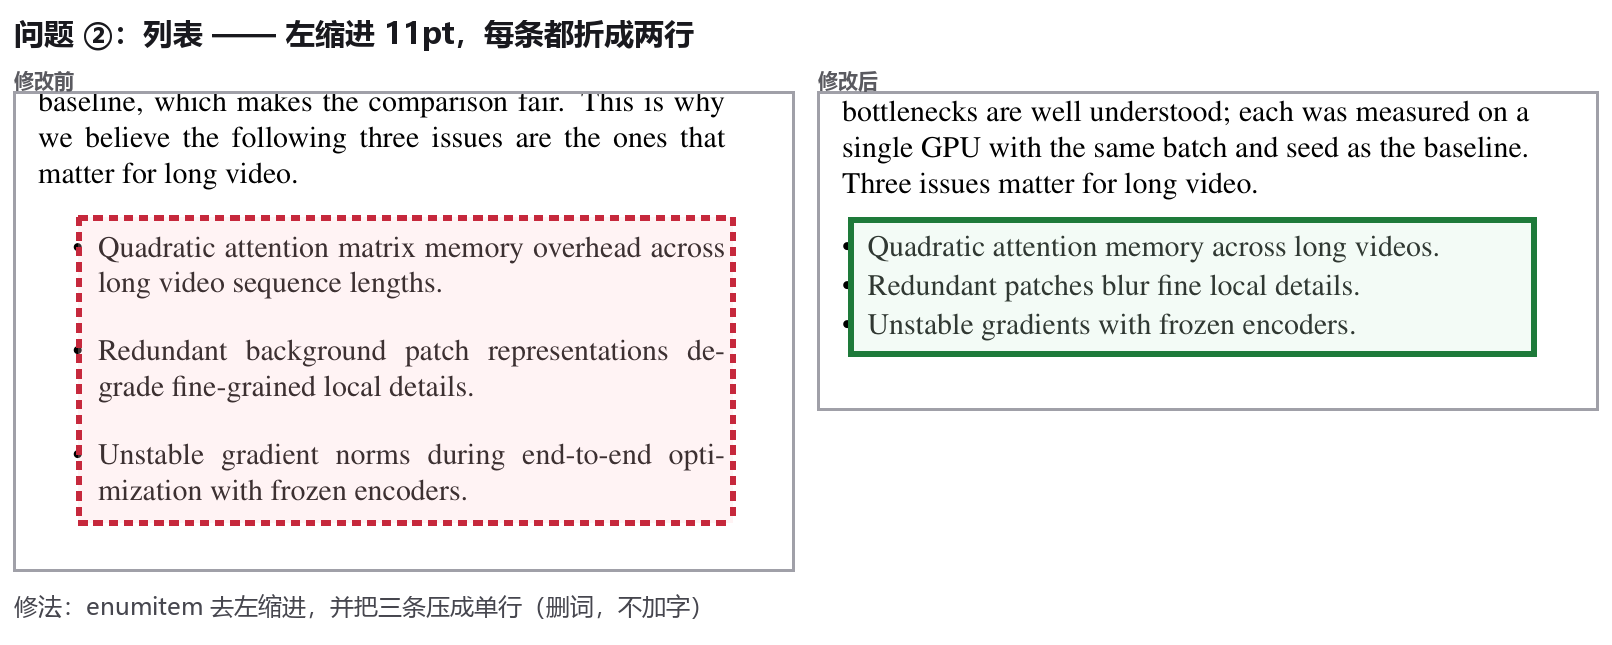
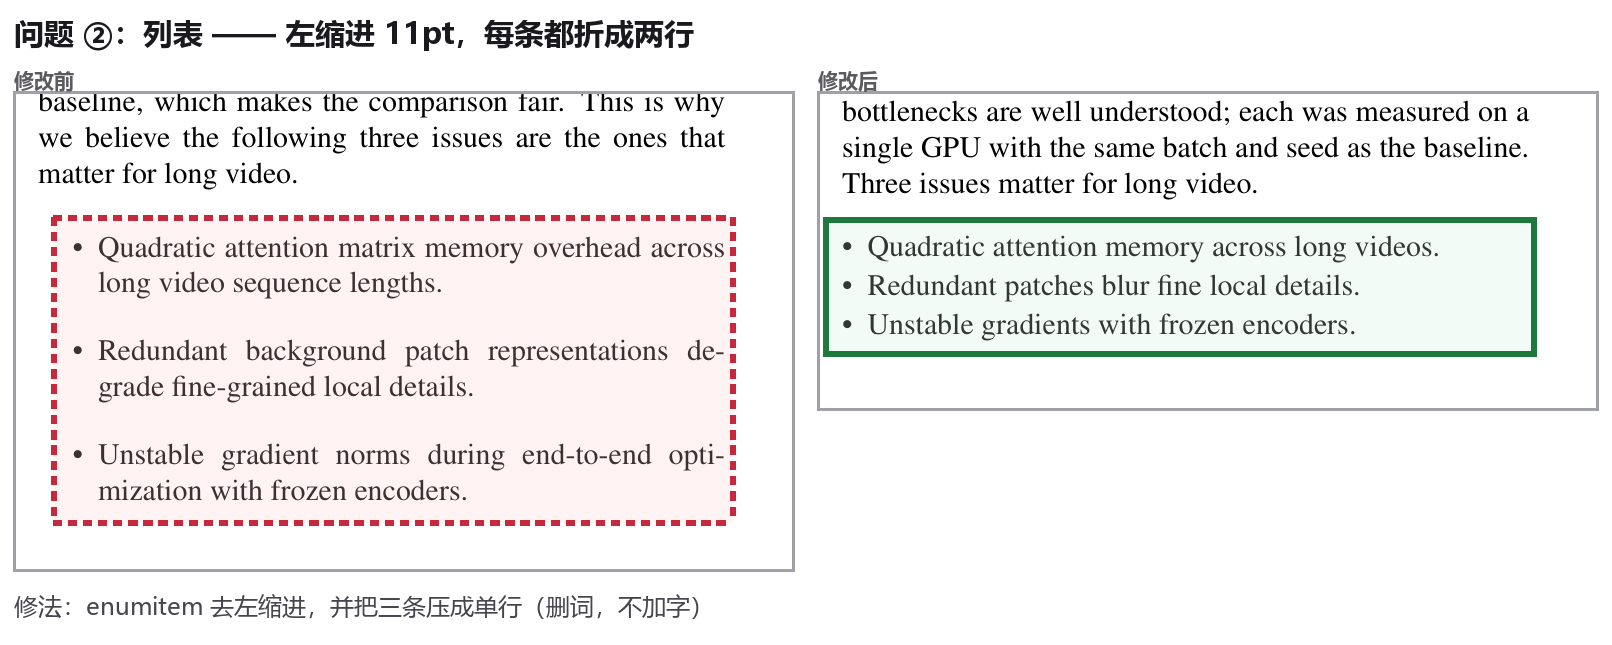
Fix corrupted code fences in README, extend list crop, strip SKILL.md BOM
- README: restore `ash / `	ext fences (backtick escapes had eaten two
  backticks and the letter r), regenerate numbered sections
- examples/demo3: list box now includes the bullet markers
- SKILL.md: remove UTF-8 BOM

Changed region(s): [[0.031, 0.3101, 0.2481, 0.8372], [0.4963, 0.3411, 0.5273, 0.5581], [0.1861, 0.3101, 0.2171, 0.3411]]

diff --git a/examples/demo3/compose3.py b/examples/demo3/compose3.py
@@ -57,6 +57,17 @@ def line_of(page, text):
     return out
 
 
+def bullet_left(page, y0, y1):
+    xs = []
+    for blk in page.get_text("dict")["blocks"]:
+        for ln in blk.get("lines", []):
+            t = "".join(sp["text"] for sp in ln["spans"]).strip()
+            r = fitz.Rect(ln["bbox"])
+            if t.startswith("•") and r.y0 >= y0 - 4 and r.y1 <= y1 + 4:
+                xs.append(r.x0)
+    return min(xs) if xs else None
+
+
 def mark(layer, r, origin, off, color, tint, scale, dashed_flag=True, w=6, dash=15, pad=7):
     ax = (r.x0 - origin.x0) * scale + off[0]
     ay = (r.y0 - origin.y0) * scale + off[1]
@@ -138,8 +149,10 @@ def main():
     last_b = b.search_for("mization with frozen encoders")[0]
     first_a = a.search_for("Quadratic attention")[0]
     last_a = a.search_for("Unstable gradients with frozen encoders")[0]
-    lb = fitz.Rect(first_b.x0 - 4, first_b.y0 - 3, 301.0, last_b.y1 + 3)
-    rb = fitz.Rect(first_a.x0 - 4, first_a.y0 - 3, 301.0, last_a.y1 + 3)
+    bl_b = bullet_left(b, first_b.y0, last_b.y1) or first_b.x0 - 12
+    bl_a = bullet_left(a, first_a.y0, last_a.y1) or first_a.x0 - 12
+    lb = fitz.Rect(bl_b - 4, first_b.y0 - 3, 301.0, last_b.y1 + 3)
+    rb = fitz.Rect(bl_a - 4, first_a.y0 - 3, 301.0, last_a.y1 + 3)
     lrect = fitz.Rect(66, lb.y0 - 42, 322, lb.y1 + 16)
     rrect = fitz.Rect(66, rb.y0 - 42, 322, rb.y1 + 18)
     panel(2, "问题 ②：列表 —— 左缩进 11pt，每条都折成两行",

diff --git a/README.md b/README.md
@@ -2,40 +2,40 @@
 
 顶会论文版面美化：把「不均匀空白」量化成可复核的证据，再按你审核的范围去改。
 
-方法来自《提升顶会投稿美感的六大焚决》（Alonzo）：把 PDF 缩到 50%、退后半步看轮廓——好论文每栏的文字与图表应该拼成**边缘锋利、深浅一致的矩形色块**，空白只允许出现在栏间中缝、页边距和段落过渡处。凡破坏这个矩形的空白，就是"不均匀空白"。关键是**消除**而不是减少：剩一处，整体观感就还是脏的。
+方法来自《提升顶会投稿美感的六大焚决》（Alonzo）：把 PDF 缩到 50%、退后半步看轮廓——好论文每栏的文字与图表应该拼成**边缘锋利、深浅一致的矩形色块**，空白只允许出现在栏间中缝、页边距和段落过渡处。凡破坏这个矩形的空白，就是“不均匀空白”。关键是**消除**而不是减少：剩一处，整体观感就还是脏的。
 
 ## 安装
 
-这个仓库本身就是一个技能包（SKILL.md + 
-eferences/ + scripts/），装进 DSH 的用户技能目录即可被自动发现：
+这个仓库本身就是一个技能包（`SKILL.md` + `references/` + `scripts/`），装进 DSH 的用户技能目录即可被自动发现：
 
-`ash
+```bash
 git clone https://github.com/9527La/paper-layout-polish.git ~/.dsh/skills/paper-layout-polish
-`
+```
 
-Windows 下目标目录是 C:\Users\<你>\.dsh\skills\paper-layout-polish。依赖只有 Python 3 + PyMuPDF：
+Windows 下目标目录是 `C:\Users\<你>\.dsh\skills\paper-layout-polish`。依赖只有 Python 3 + PyMuPDF：
 
-`ash
+```bash
 pip install pymupdf
-`
+```
 
 ## 目录结构
 
-`
-SKILL.md                  技能说明（何时用、三段流程、参数与退出码）
-references/rubric.md      六类判据、硬阈值/目标、P0–P3 定义
-references/latex-fixes.md 修法：删词滑块表、tabular*、align、enumitem…
-references/figure-fixes.md 构图与宽高比、matplotlib 片段
+```text
+SKILL.md                    技能说明（何时用、三段流程、参数与退出码）
+references/rubric.md        六类判据、硬阈值/目标、P0–P3 定义
+references/latex-fixes.md   修法：删词滑块表、tabular*、align、enumitem…
+references/figure-fixes.md  构图与宽高比、matplotlib 片段
 references/report-template.md Phase 1/2/3 的报告骨架
-scripts/audit_layout.py   审计脚本（PyMuPDF，输出 Markdown + JSON + 裁剪图）
-examples/demo2/           自测：4 页假论文的前后对照（含 before/after 报告）
-`
+scripts/audit_layout.py     审计脚本（PyMuPDF，输出 Markdown + JSON + 裁剪图）
+examples/demo2/             自测：4 页假论文的前后对照（含 before/after 报告）
+examples/demo3/             自测：列表、多子图、寡行「删掉」三处局部对照
+```
 
 ## 三段流程（不会直接改你的稿子）
 
-1. **检查与呈现** — 定位 `paper.tex` / `paper.pdf`，跑审计脚本，生成带裁剪图的报告；脚本看不到的（legend 遮挡、子图刻度、流程图构图）用人眼补。最后**停下来**，把"需要你决定的"列清楚：全修 / 只修 P0 / 逐条挑 / 先不改。
-2. **用户审核** — 复述 in-scope 与 out-of-scope，确认后再动。说"你看着办"时默认只动 P0+P1。
-3. **执行修改** — 顺序是源码级 → 大对象（图/表/公式）→ 文本级。每改一批必须"改→编译→复跑→比数字"，没改善就回退并标"已尝试/未生效"，最后给 before/after 表。
+1. **检查与呈现** — 定位 `paper.tex` / `paper.pdf`，跑审计脚本，生成带裁剪图的报告；脚本看不到的（legend 遮挡、子图刻度、流程图构图）用人眼补。最后**停下来**，把“需要你决定的”列清楚：全修 / 只修 P0 / 逐条挑 / 先不改。
+2. **用户审核** — 复述 in-scope 与 out-of-scope，确认后再动。说“你看着办”时默认只动 P0+P1。
+3. **执行修改** — 顺序是源码级 → 大对象（图/表/公式）→ 文本级。每改一批必须“改→编译→复跑→比数字”，没改善就回退并标“已尝试/未生效”，最后给 before/after 表。
 
 ## 能自动检出并给出修法的
 
@@ -126,7 +126,7 @@ demo3 的另一个作用：说明**删词会重排整栏**。第一次删完，1
 
 ## 实测：其他语料
 
-- 自带 fixture（2 页双栏，种 6 类缺陷）：P0 11 → 修 4 处后 9，"越界"和"图"两节整节消失。
+- 自带 fixture（2 页双栏，种 6 类缺陷）：P0 11 → 修 4 处后 9，“越界”和“图”两节整节消失。
 - IEEE Trans. Smart Grid 真论文前 4 页：P0 4 / P1 6 / P2 1，越界只剩 3 条真实的 2.2–2.6pt 微溢（版心 254.5pt，识别为 2 栏）。
 - 单栏 letterpaper 文档：正确识别为 1 栏（468.1pt），仍报出 25% 宽的窄表。
 
@@ -144,7 +144,7 @@ python scripts/audit_layout.py --pdf paper.pdf --tex paper.tex \
 
 ## 局限（脚本看不到的）
 
-- legend 是否压住数据点、子图刻度是否对齐、流程图构图是否"像拍照一样占满 70%"——这些要人眼。
+- legend 是否压住数据点、子图刻度是否对齐、流程图构图是否“像拍照一样占满 70%”——这些要人眼。
 - `figure*` / `table*` 以版心为基准判断宽度。
 - 最后一页的空白通常由内容量决定，不算版面缺陷。
 - 端到端只测过 LaTeX；PDF 需由 TeX 正常产出（有 `.tex` 才能做源码级检查）。

diff --git a/SKILL.md b/SKILL.md
@@ -1,4 +1,4 @@
----
+---
 name: paper-layout-polish
 description: '顶会论文版面美化与「不均匀空白」消除（CVPR/ICLR/NeurIPS/ICML/AAAI 等 LaTeX 投稿）。当用户要"美化论文""版面太丑""看起来很空""末行孤零零一个词""图没撑满栏宽""表格两边留白""公式编号掉到下一行""投稿前最后过一遍排版"时使用。流程固定为三段：① 检查并把问题连同证据呈现给用户 → ② 用户审核决定改哪些 → ③ 按审核结果执行修改并复跑验证。Also for: polish paper layout, fix widows and orphans, fill column width, camera-ready formatting check, tune figure/table sizing, LaTeX layout audit.'
 metadata:
